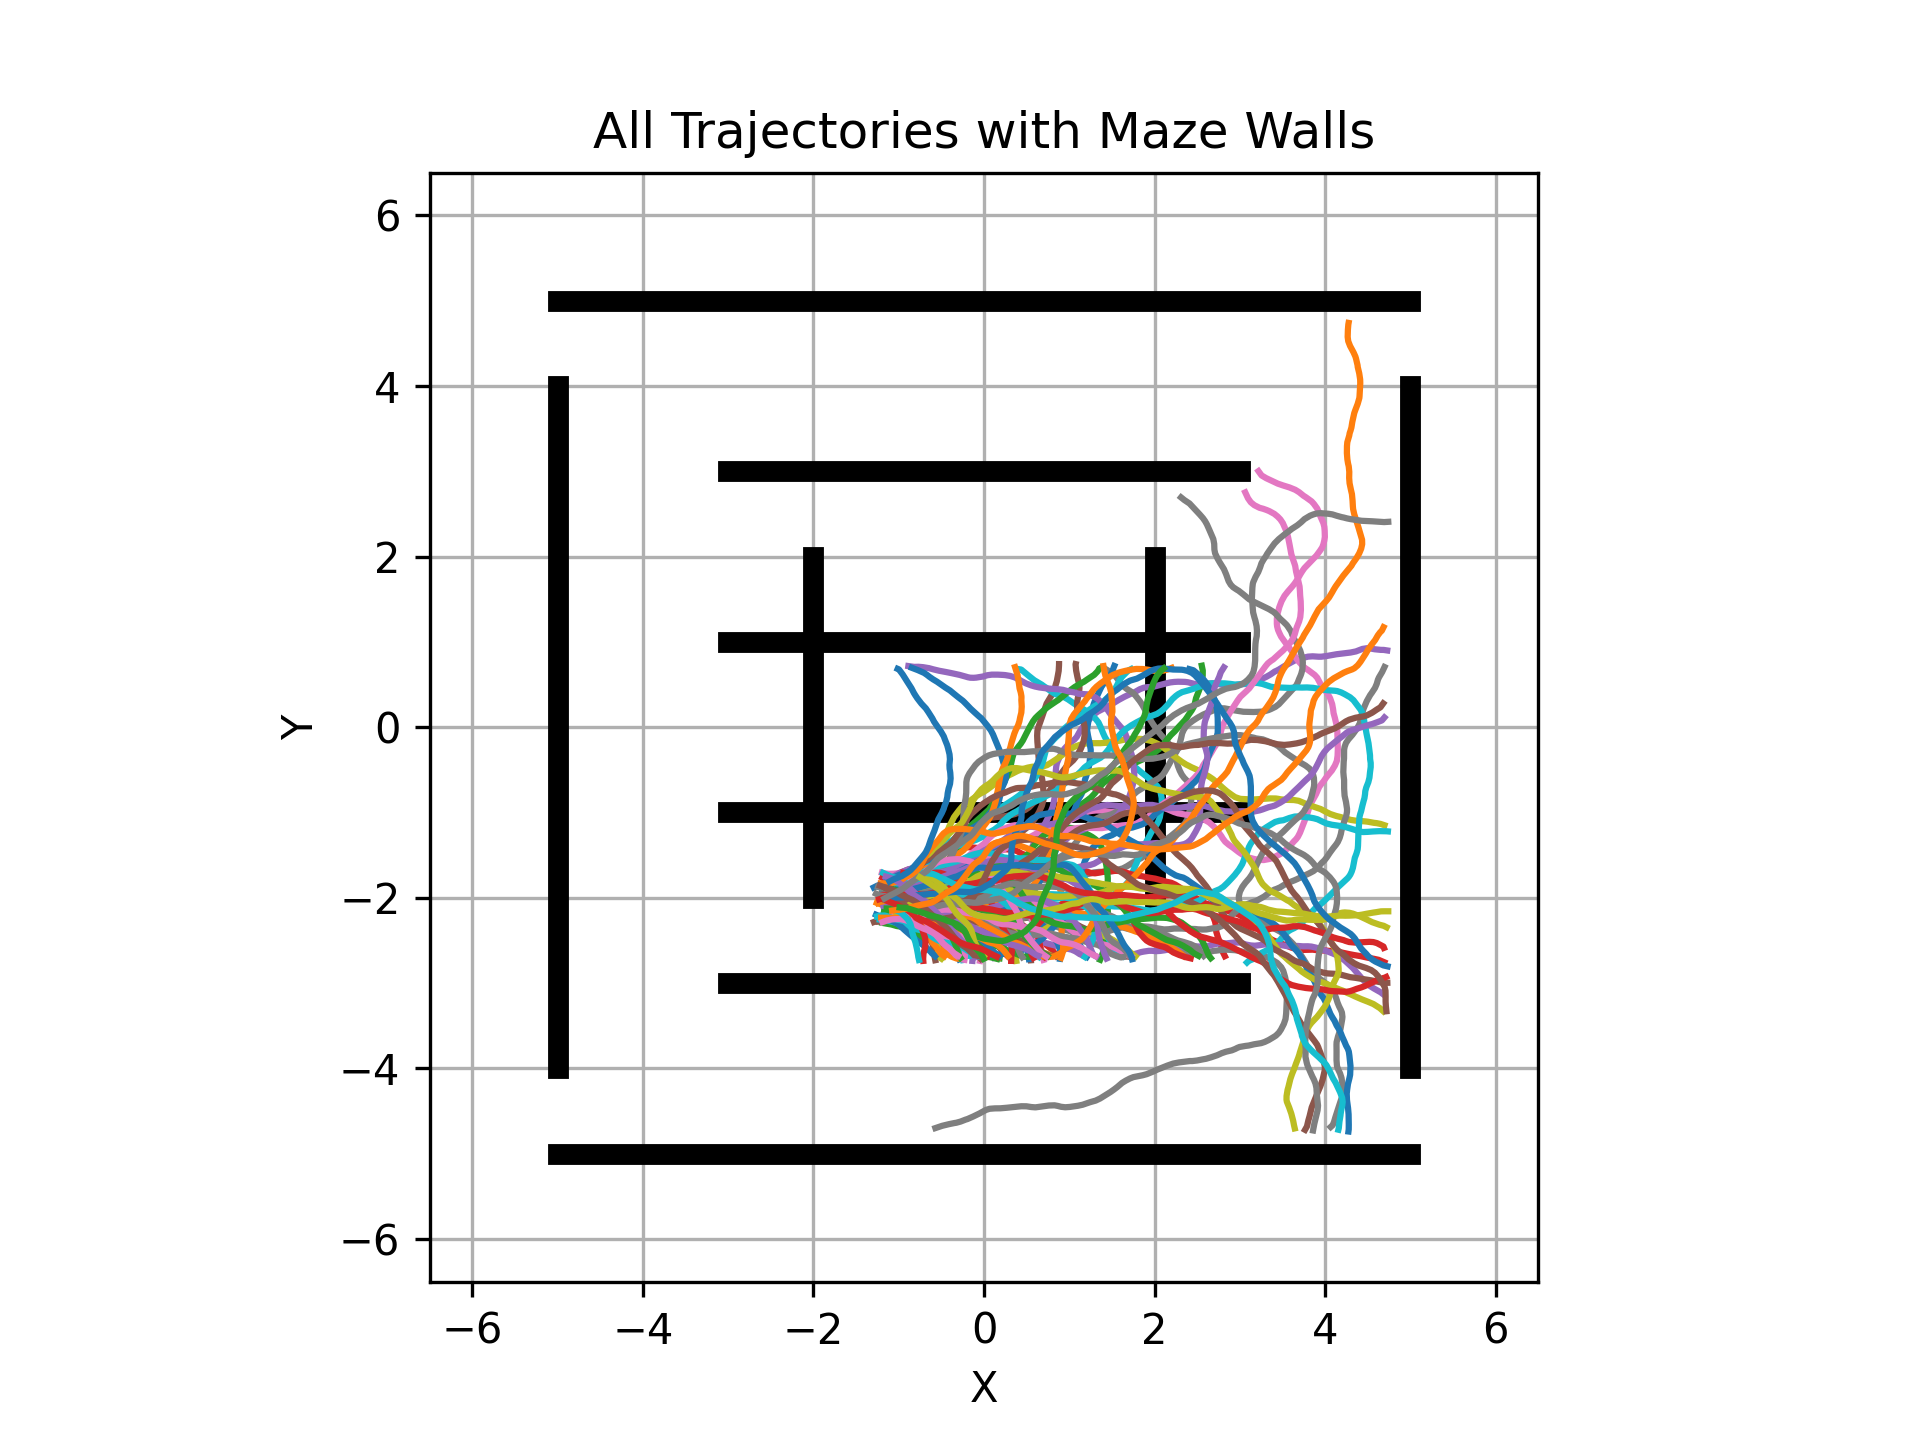
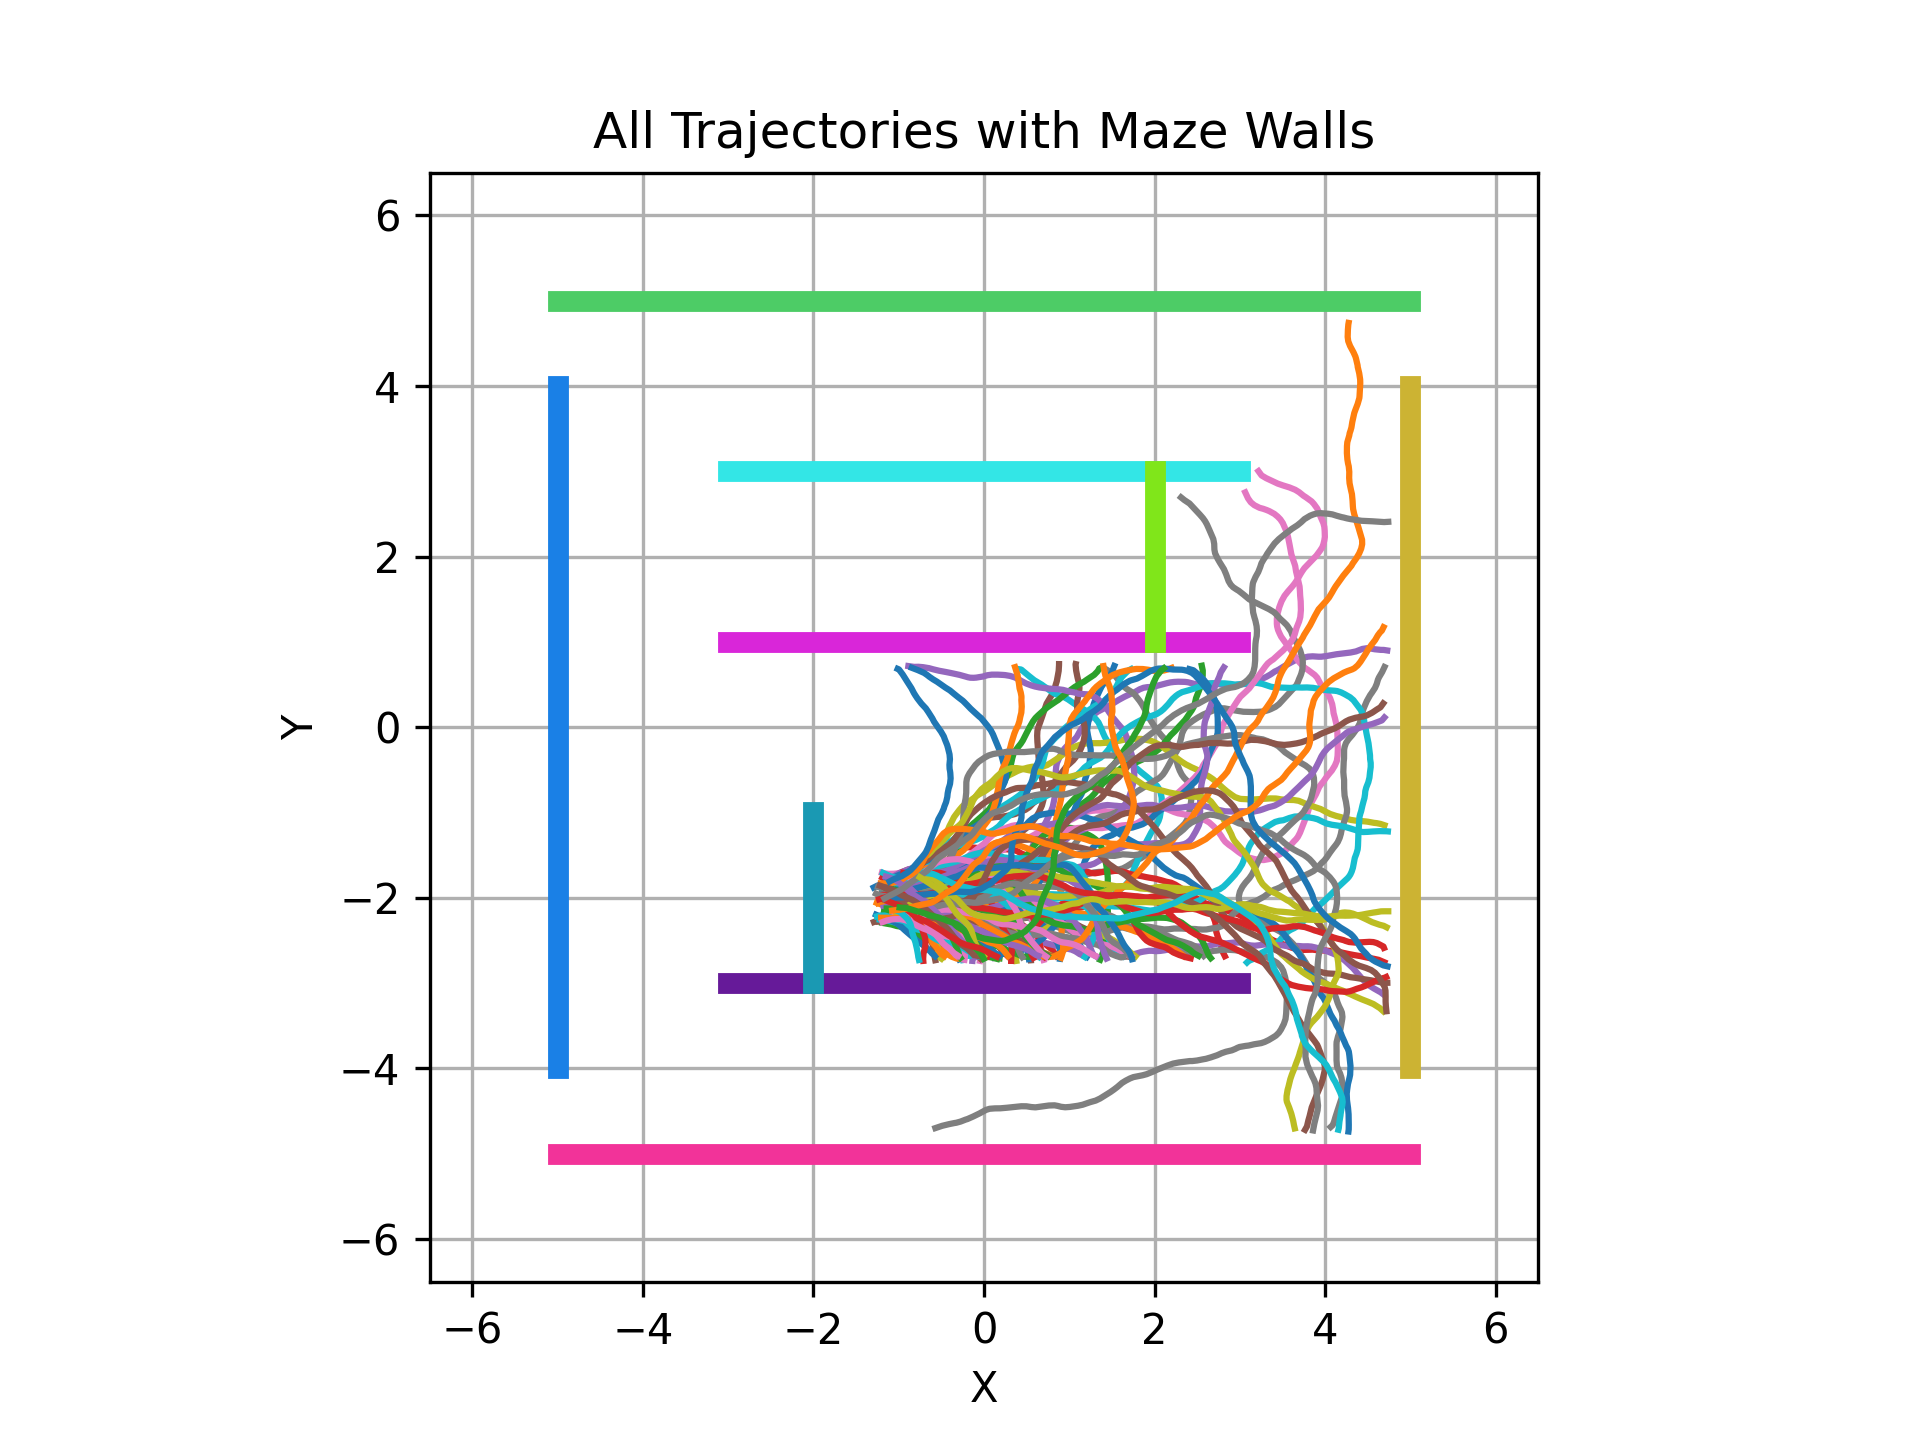
.

diff --git a/plot_trajectories.py b/plot_trajectories.py
@@ -9,57 +9,54 @@ def parse_urdf_and_plot(urdf_path, trajectory_data_path):
     root = tree.getroot()
 
     walls = []
+    # Each visual element of the URDF describes one wall.  We read the box size
+    # from the ``size`` attribute and the position from the ``origin`` tag.  The
+    # original version of this script expected nested ``size`` and ``color``
+    # elements which do not exist in the provided URDF.  Because of that it
+    # always fell back to default values and the walls were drawn at the wrong
+    # position.  The code below correctly handles the URDF structure where the
+    # attributes are stored on the elements themselves.
+    for visual in root.findall(".//visual"):
+        # Default color
+        rgba = (1.0, 1.0, 1.0, 1.0)
 
-    # Loop through the URDF XML to find walls (both visual and collision)
-    for link in root.findall(".//link"):
-        for visual in link.findall("visual"):
-            # Default color is white if color is not found
-            rgba = (1.0, 1.0, 1.0, 1.0)
+        material = visual.find("material")
+        if material is not None:
+            color_el = material.find("color")
+            if color_el is not None and color_el.get("rgba"):
+                try:
+                    rgba = tuple(map(float, color_el.get("rgba").split()))
+                except Exception:
+                    rgba = (1.0, 1.0, 1.0, 1.0)
 
-            # Get the color information
-            material = visual.find("material")
-            if material is not None:
-                color = material.find("color")
-                if color is not None:
-                    print(f"Found color: {color.text}")
-                    try:
-                        rgba = tuple(map(float, color.text.split()))
-                    except AttributeError:
-                        rgba = (1.0, 1.0, 1.0, 1.0)  # Default color: white
-                        print(f"Warning: Invalid color format for link '{link.get('name')}'")
-            else:
-                rgba = (1.0, 1.0, 1.0, 1.0)  # Default color: white
-                print(f"Warning: No material found for link '{link.get('name')}'")
+        geometry = visual.find("geometry")
+        if geometry is None:
+            continue
+        box = geometry.find("box")
+        if box is None or not box.get("size"):
+            continue
 
-            # Get the geometry (box size)
-            geometry = visual.find("geometry")
-            if geometry is not None:
-                box = geometry.find("box")
-                if box is not None:
-                    size = box.find("size")
-                    if size is not None:
-                        size_values = tuple(map(float, size.text.split()))
-                    else:
-                        size_values = (1.0, 1.0, 1.0)  # Default size: 1x1x1
-                        print(f"Warning: No size found for box in link '{link.get('name')}'")
+        size_values = tuple(map(float, box.get("size").split()))
 
-                    # Get the position (origin)
-                    origin = visual.find("origin")
-                    if origin is not None:
-                        xyz = tuple(map(float, origin.get("xyz", "0 0 0").split()))
-                        rpy = tuple(map(float, origin.get("rpy", "0 0 0").split()))
+        origin = visual.find("origin")
+        if origin is not None:
+            xyz = tuple(map(float, origin.get("xyz", "0 0 0").split()))
+        else:
+            xyz = (0.0, 0.0, 0.0)
 
-                        # Handle horizontal and vertical walls
-                        if size_values[0] > size_values[1]:  # Horizontal wall
-                            x1 = xyz[0] - size_values[0] / 2
-                            x2 = xyz[0] + size_values[0] / 2
-                            y = xyz[1]  # Constant y value for horizontal wall
-                            walls.append({"x1": x1, "x2": x2, "y": y, "color": rgba})
-                        else:  # Vertical wall
-                            x = xyz[0]  # Constant x value for vertical wall
-                            y1 = xyz[1] - size_values[1] / 2
-                            y2 = xyz[1] + size_values[1] / 2
-                            walls.append({"x1": x, "y1": y1, "y2": y2, "color": rgba})
+        # Determine orientation (horizontal or vertical) from the box
+        if size_values[0] >= size_values[1]:
+            # Horizontal wall (longer in x-direction)
+            x1 = xyz[0] - size_values[0] / 2
+            x2 = xyz[0] + size_values[0] / 2
+            y = xyz[1]
+            walls.append({"x1": x1, "x2": x2, "y": y, "color": rgba})
+        else:
+            # Vertical wall (longer in y-direction)
+            x = xyz[0]
+            y1 = xyz[1] - size_values[1] / 2
+            y2 = xyz[1] + size_values[1] / 2
+            walls.append({"x1": x, "y1": y1, "y2": y2, "color": rgba})
 
     # ovverride Walls because it doesnt work with the current URDF
 
